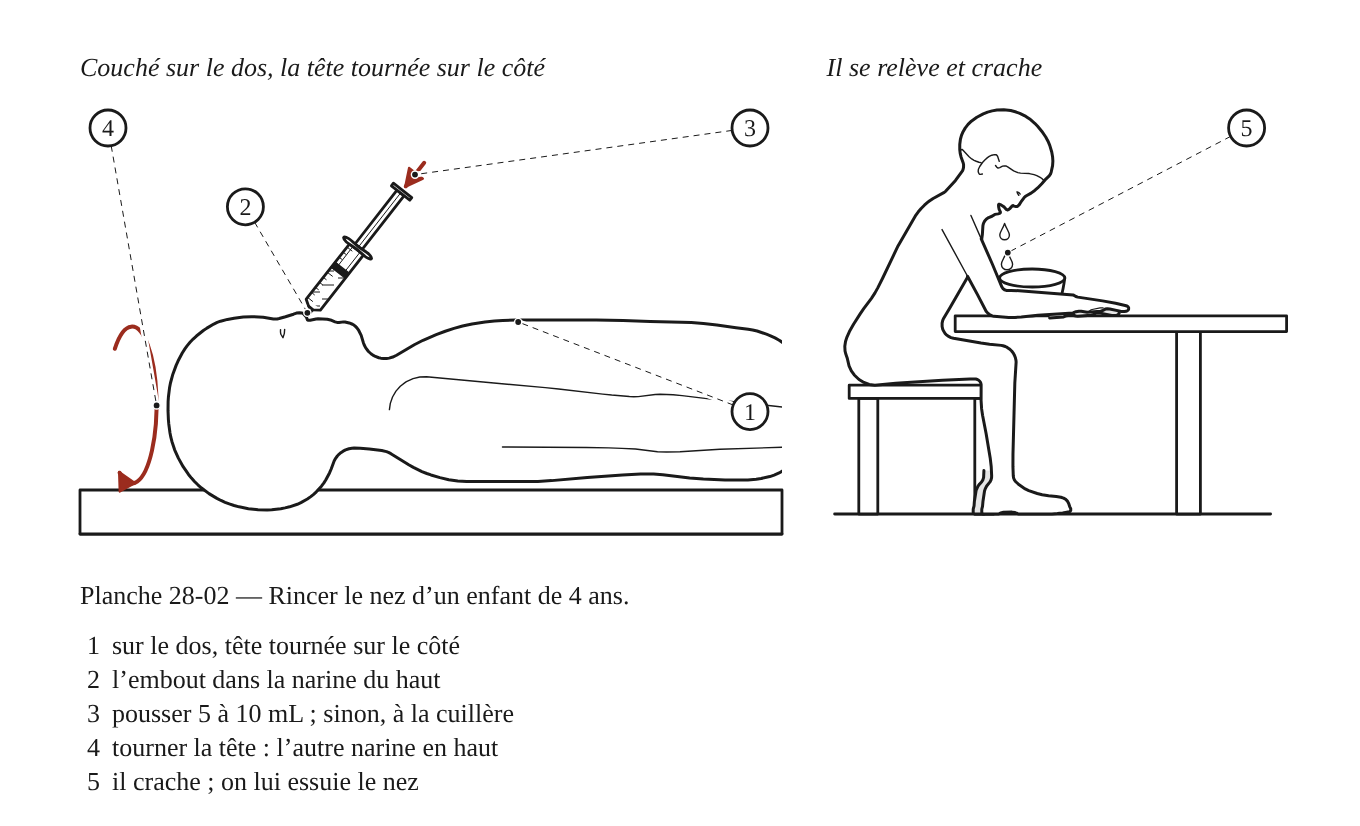
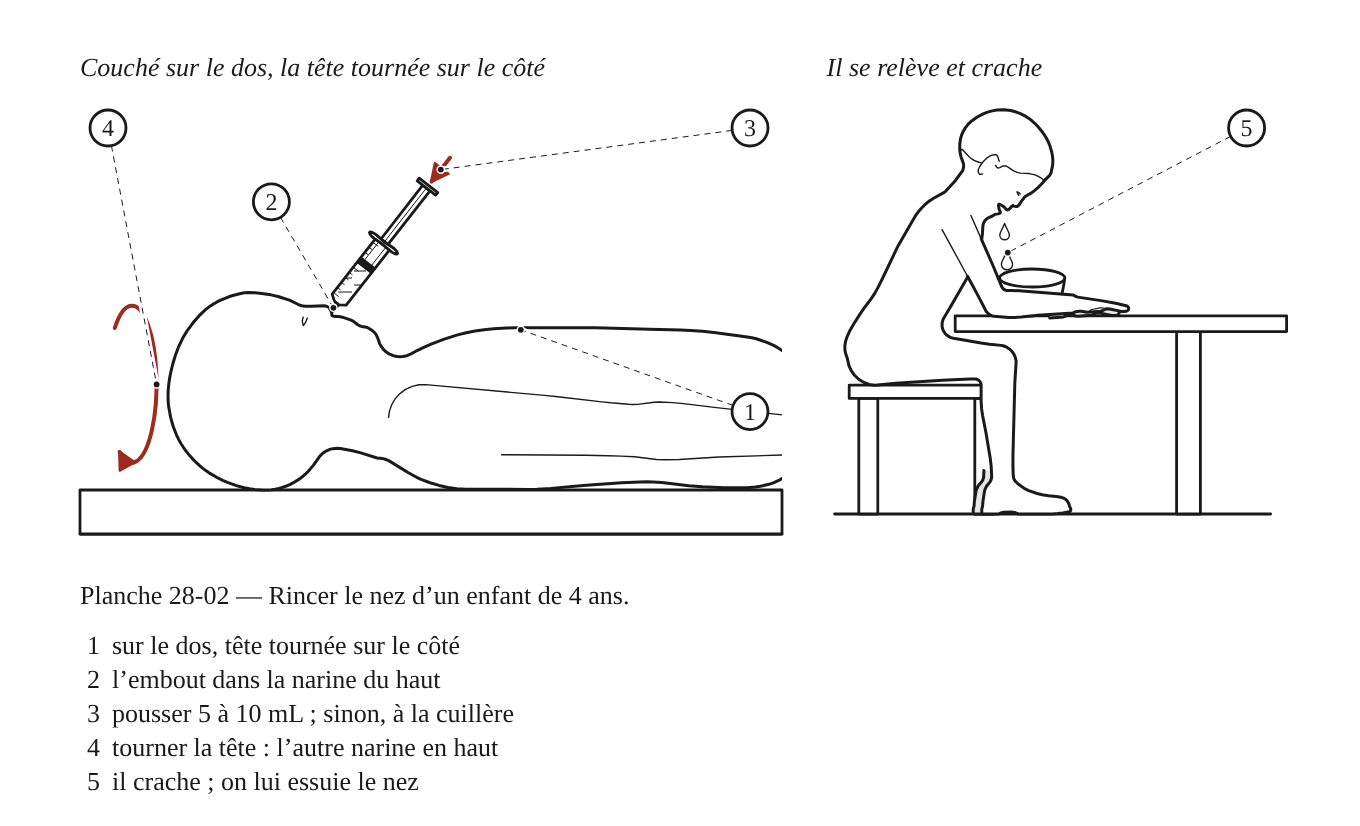
28-02 : l'enfant couché repose sur le matelas, la tête ne traverse plus la ligne
Claude-Session: https://claude.ai/code/session_014xDY5FLxFXDJt3nYAYznSZ

diff --git a/images/planches-src/28-02.js b/images/planches-src/28-02.js
@@ -106,13 +106,12 @@ module.exports = (h) => {
     if (memoK[cle]) return memoK[cle];
     const e = Math.min(0.62, (z.h - 40) / 330), mat = z.h - 26;
     // le visage : la tête simple (corps({ visage }), 14 oct.), les yeux ouverts, la bouche fermée. Couché à
-    // plat, le crâne de la tête simple descend plus bas que la tête du corps : le moteur pose
-    // alors l'enfant sur l'arrière de sa tête, le dos en l'air. On le redescend de cet écart : le dos repose
-    // sur le matelas et la tête s'y enfonce un peu.
-    const cD = F.corps({ x: 0, y: mat, pose: 'couche-dos', age: 'enfant4', echelle: e });
-    const c0 = F.corps({ x: 0, y: mat, pose: 'couche-dos', age: 'enfant4', echelle: e, visage: VISAGE_C });
-    const enfonce = cD.articulations.bassin[1] - c0.articulations.bassin[1];
-    const c = F.corps({ x: 44 - c0.boite.x0, y: mat + enfonce, pose: 'couche-dos', age: 'enfant4', echelle: e, visage: VISAGE_C });
+    // plat (cou et tête à −90°), le crâne de la tête simple descend 25 mm plus bas que la tête du corps : le
+    // moteur pose l'enfant sur l'arrière de sa tête, le dos en l'air. Le menton rentre un peu (cou −80°, tête
+    // −74°, cherchés) : l'occiput et le dos reposent ensemble sur le matelas, à moins d'un millimètre près.
+    const ANG_C = { cou: -80, tete: -74 };
+    const c0 = F.corps({ x: 0, y: mat, pose: 'couche-dos', age: 'enfant4', echelle: e, angles: ANG_C, visage: VISAGE_C });
+    const c = F.corps({ x: 44 - c0.boite.x0, y: mat, pose: 'couche-dos', age: 'enfant4', echelle: e, angles: ANG_C, visage: VISAGE_C });
     const T = c.tete;
     // la narine : sous le bout du nez, côté bouche
     const nez = c.visage.nez, bo = c.visage.bouche;
